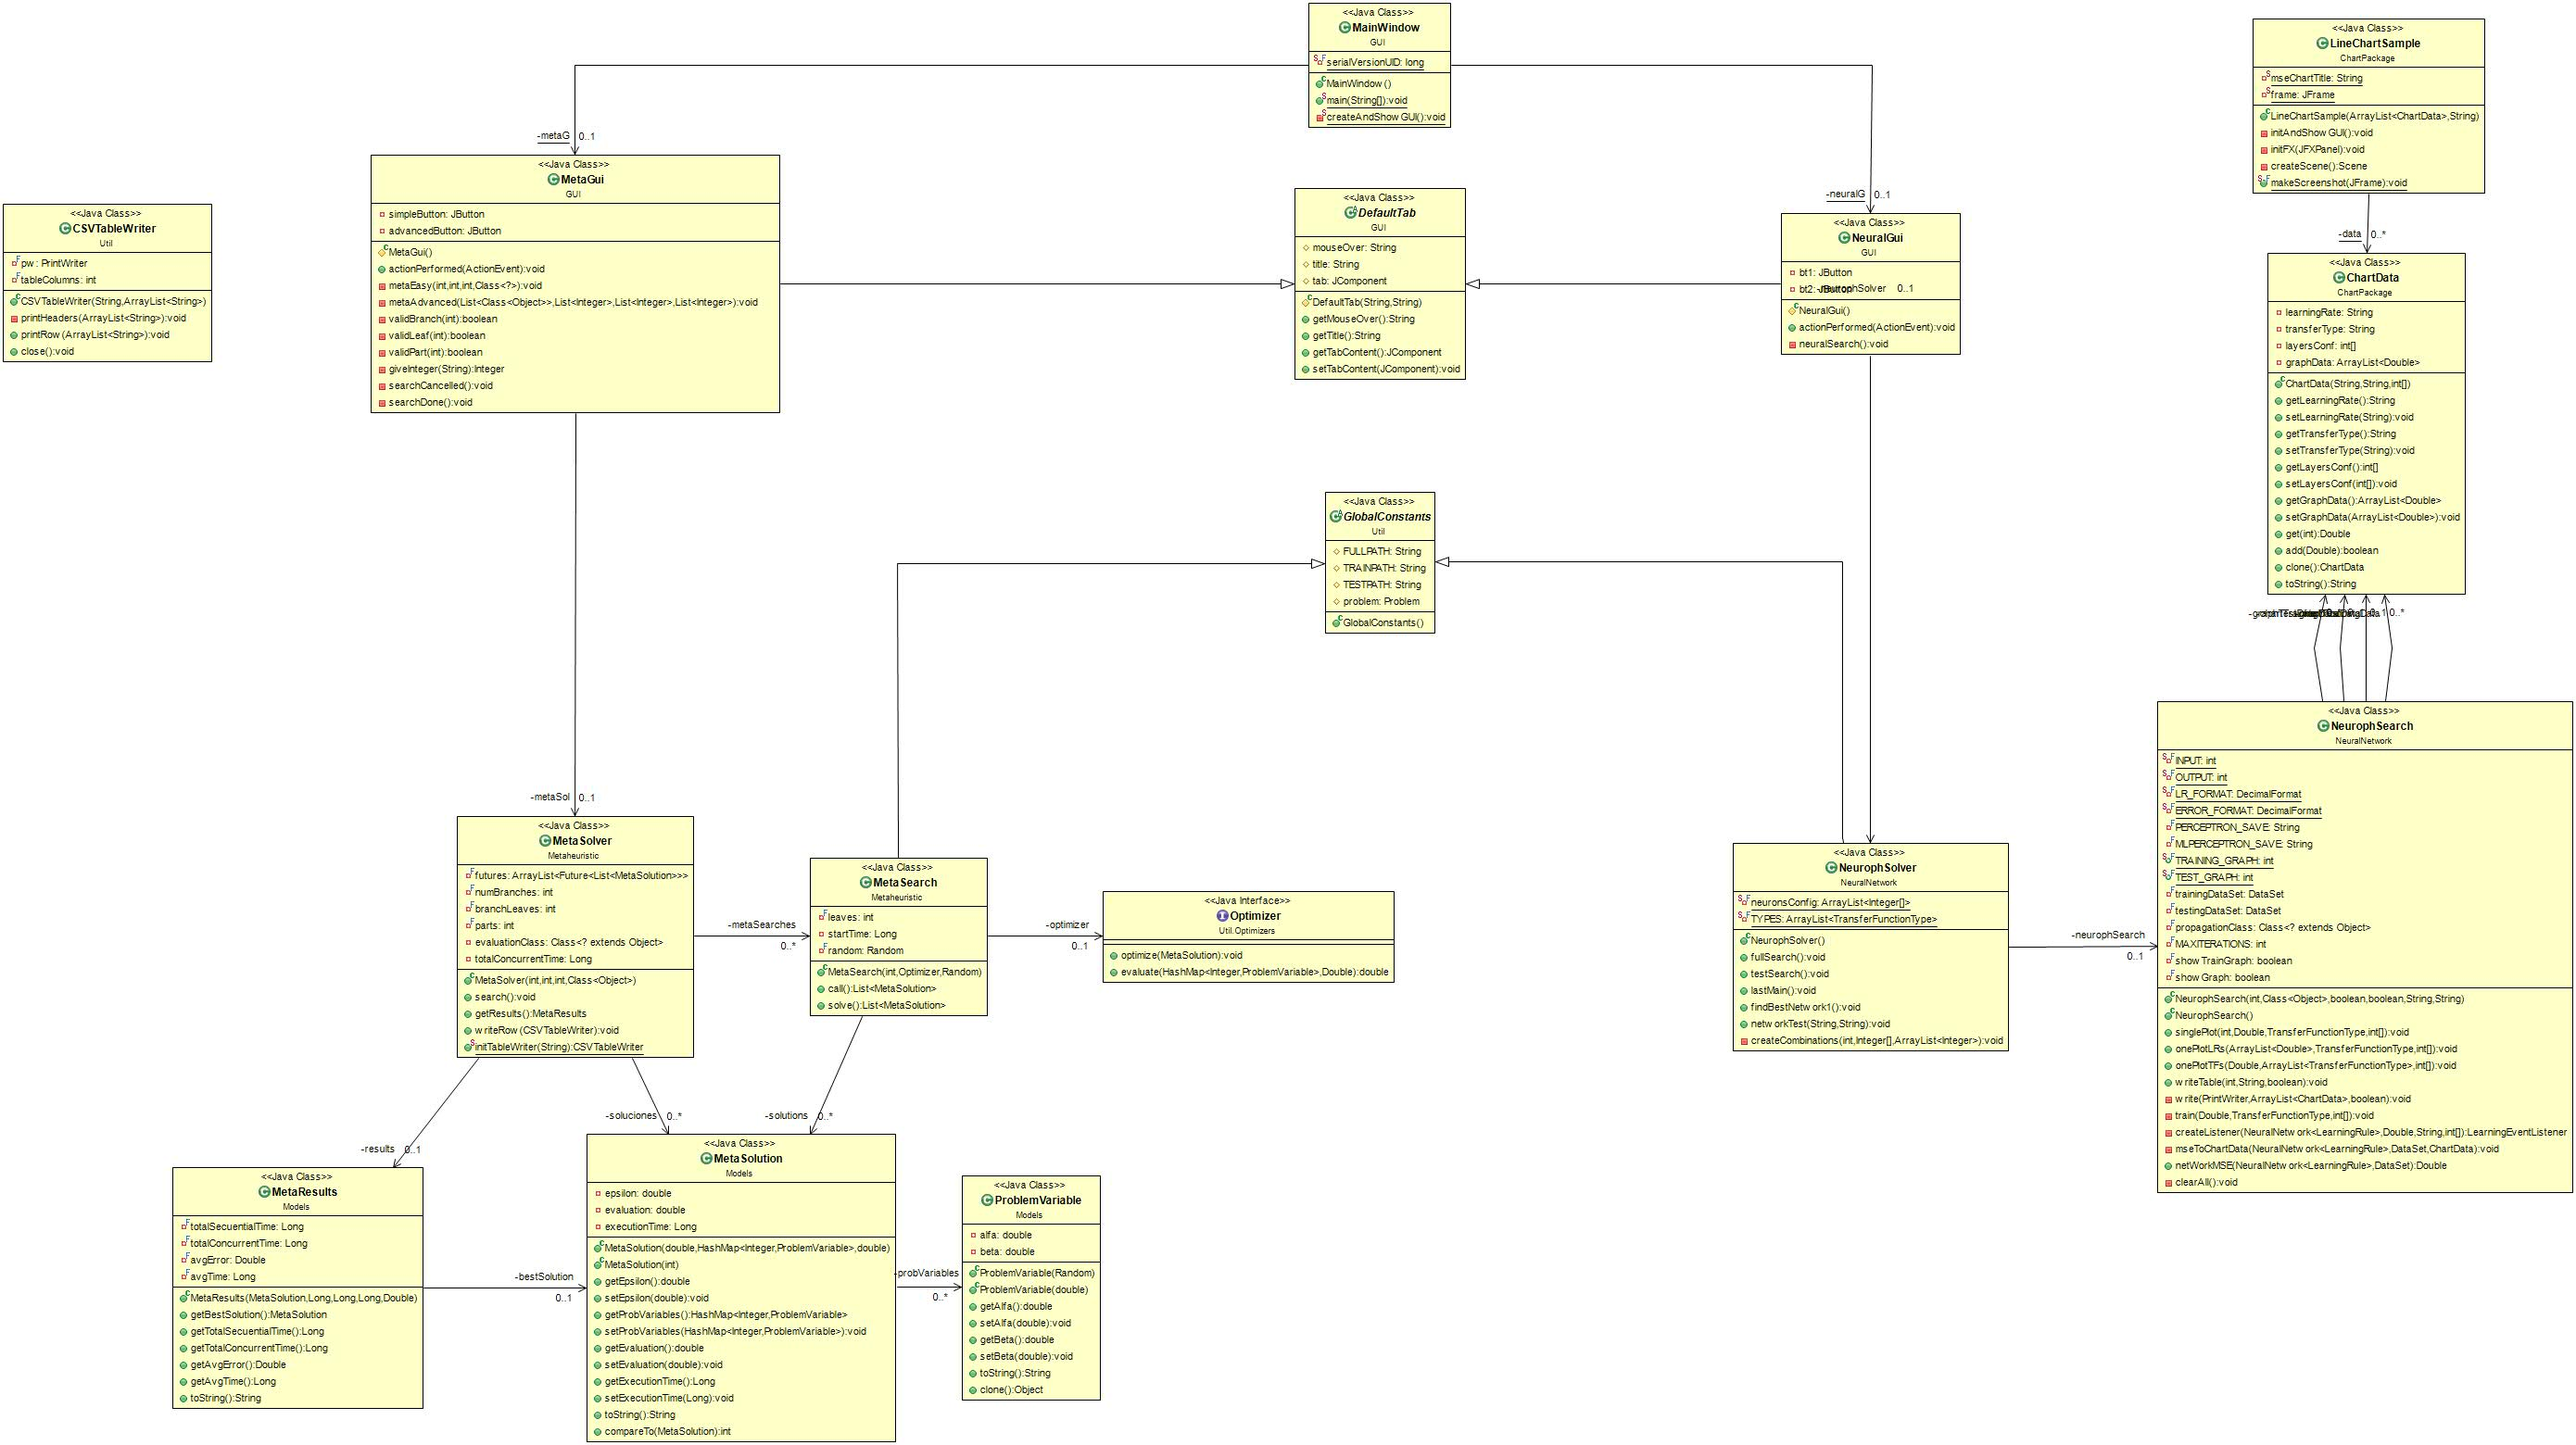
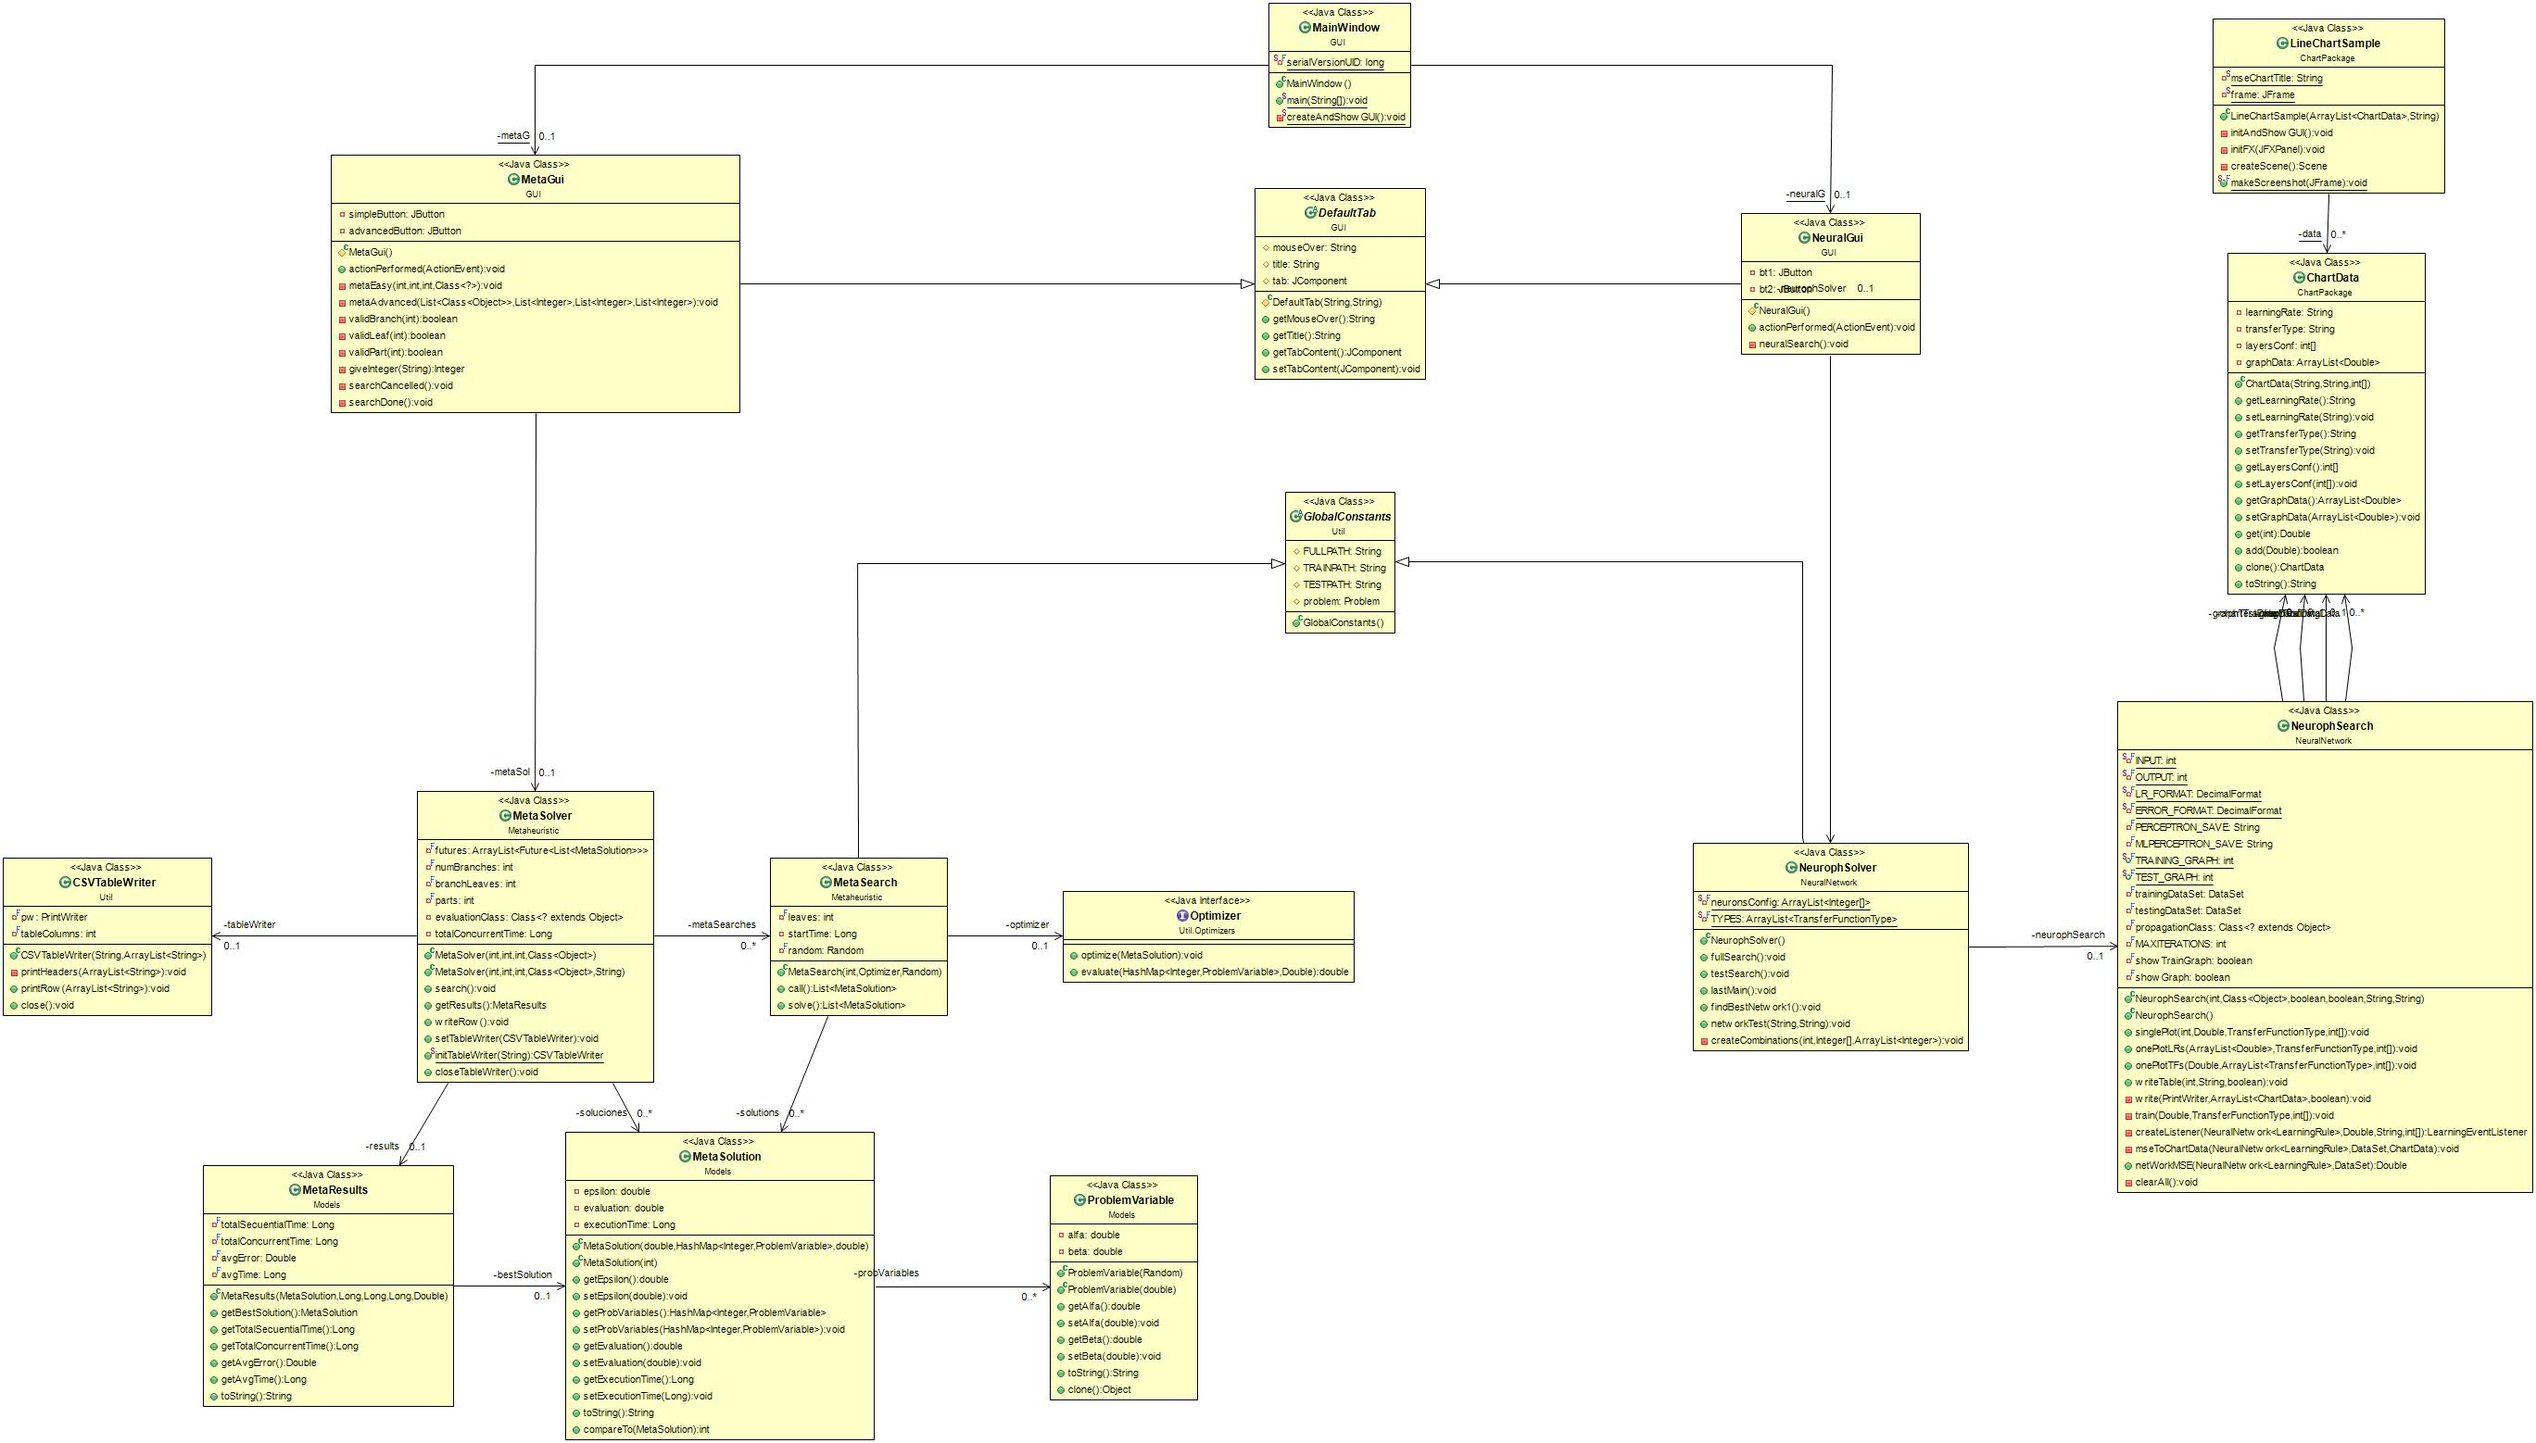
Table writer on metasolver

diff --git a/src/main/java/Metaheuristic/MetaSolver.java b/src/main/java/Metaheuristic/MetaSolver.java
@@ -31,13 +31,24 @@ public class MetaSolver {
     private Long totalConcurrentTime;
     private MetaResults results;
     private ArrayList<MetaSearch> metaSearches = new ArrayList<>();
+    private CSVTableWriter tableWriter;
 
     public MetaSolver(int numBranches, int numLeaves, int parts, Class<? extends Object> evaluationClass) {
     	
         this.numBranches = numBranches;
         this.branchLeaves = numLeaves;
         this.parts = parts;
+        this.evaluationClass = evaluationClass;        
+    }
+
+    public MetaSolver(int numBranches, int numLeaves, int parts, Class<? extends Object> evaluationClass, String writerPath) {
+    	
+        this.numBranches = numBranches;
+        this.branchLeaves = numLeaves;
+        this.parts = parts;
         this.evaluationClass = evaluationClass;
+        CSVTableWriter writer = initTableWriter(writerPath);
+        this.setTableWriter(writer);
     }
 
     public void search() {
@@ -100,7 +111,20 @@ public class MetaSolver {
 //        return Collections.min(soluciones);
 //    }
 
-    public void writeRow(CSVTableWriter tw) {
+    public void setTableWriter(CSVTableWriter tableWriter) {
+		this.tableWriter = tableWriter;
+	}
+
+	public void closeTableWriter() {
+		tableWriter.close();
+		
+	}
+    
+
+    public void writeRow() throws Exception {
+    	if(tableWriter==null){
+    		throw new Exception("tableWriter cannot be null");
+    	}
         if (results == null) {
             getResults();
         }
@@ -120,14 +144,14 @@ public class MetaSolver {
             nextRow.add(avgMae.toString().replace('.', ','));
             nextRow.add(String.valueOf(results.getAvgTime()));
 
-            tw.printRow(nextRow);
+            tableWriter.printRow(nextRow);
 
         } catch (Exception e) {
             System.err.println("EXCEPCION CAPTURADA");
         }
     }
 
-    public static CSVTableWriter initTableWriter(String path) {
+	public static CSVTableWriter initTableWriter(String path) {
         String realpath = "MetaSolutions/";
         realpath += path;
         ArrayList<String> tableHeaders = new ArrayList<>();
@@ -141,5 +165,6 @@ public class MetaSolver {
         
         return tw;
     }
+
 
 }

diff --git a/src/main/java/GUI/MetaGui.java b/src/main/java/GUI/MetaGui.java
@@ -175,12 +175,16 @@ public class MetaGui extends DefaultTab implements ActionListener {
 
 	private void metaEasy(int searchBranches, int leaves, int parts, Class<?> optimizer) {
 
-		metaSol = new MetaSolver(searchBranches, leaves, parts, optimizer);
+		metaSol = new MetaSolver(searchBranches, leaves, parts, optimizer,"testingLSFI.csv");
 		metaSol.search();
 		MetaResults results = metaSol.getResults();
-		CSVTableWriter tw = MetaSolver.initTableWriter("testingLSFI.csv");
-		metaSol.writeRow(tw);
-		tw.close();
+		try {
+			metaSol.writeRow();
+		} catch (Exception e) {
+			// TODO Auto-generated catch block
+			e.printStackTrace();
+		}
+		metaSol.closeTableWriter();
 
 		// System.out.println(results.getBestSolution());
 		// System.out.println("Secuencial: " +
@@ -222,7 +226,13 @@ public class MetaGui extends DefaultTab implements ActionListener {
 							// System.out.println("Avg Time :" +
 							// results.getAvgTime());
 							// System.out.println(LSFIEvaluationOptimizer.class.getCanonicalName());
-							metaSol.writeRow(tw);
+							metaSol.setTableWriter(tw);
+							try {
+								metaSol.writeRow();
+							} catch (Exception e) {
+								// TODO Auto-generated catch block
+								e.printStackTrace();
+							}
 
 							// Runtime runtime = Runtime.getRuntime();
 							// Process proc = runtime.exec("shutdown -s -t 0");
